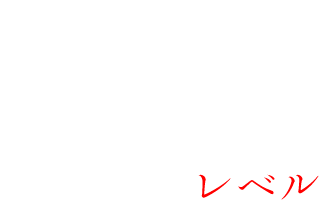
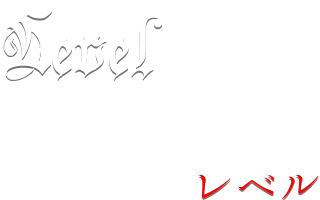
Tiny update.

diff --git a/lvlscrn.cpp b/lvlscrn.cpp
@@ -30,6 +30,7 @@ extern Mesh *playerf;
 extern HashMap<uint32_t,uint32_t> reColor;
 extern GLuint ftex;
 extern int XRES;
+extern unsigned int glowTexture;
 
 void clearFrame();
 void hudStart();
@@ -91,6 +92,20 @@ void displayForeground() {
   glEnable(GL_TEXTURE_2D);
   glActiveTexture(GL_TEXTURE0);
   glDepthMask(GL_FALSE);
+
+  float k = 15;
+  drawText(1,700,550+k,"Seven",0x80000000,1.0,0.0,0.0);
+
+  //glEnable(GL_BLEND);
+  //glBlendFunc(GL_ZERO, GL_ONE_MINUS_SRC_ALPHA);
+  //glBindTexture(GL_TEXTURE_2D,tex_level);
+  //glBegin(GL_QUADS);
+  //glColor4f(1,1,1,0.5);
+  //glTexCoord2f(1,0); glVertex3f(1280.0,k,0);
+  //glTexCoord2f(0,0); glVertex3f(0.0,k,0);
+  //glTexCoord2f(0,1); glVertex3f(0.0,720.0+k,0);
+  //glTexCoord2f(1,1); glVertex3f(1280.0,720.0+k,0);
+  //glEnd();
 
   drawText(1,700,550,"Seven",0xffffffff,1.0,0.0,0.0);
 
@@ -169,6 +184,55 @@ void greyScale() {
   }
 }
 
+class Particle {
+public:
+  Vector p;
+  Vector d;
+  double s;
+  double l;
+};
+
+Array<Particle> particles;
+
+void emitParticle(const Vector &p, const Vector &d, const double s) {
+  Particle v;
+  v.p = p;
+  v.d = d;
+  v.s = s;
+  v.l = 1;
+  if (particles.size()<200)
+    particles.push_back(v);
+}
+
+void updateParticles(double dt) {
+  for (int i = 0; i < particles.size(); i++) {
+    Particle &p = particles[i];
+    p.p += dt * p.d;
+    p.l -= dt;
+    if (p.l <= 0) {particles.erase(i,1);i--;}
+  }
+}
+
+void drawParticles() {
+  glEnable(GL_TEXTURE_2D);
+  glEnable(GL_BLEND);
+  glBlendFunc(GL_ONE,GL_ONE);
+  glDepthMask(GL_FALSE);
+  glActiveTexture(GL_TEXTURE0);
+  glBindTexture(GL_TEXTURE_2D,glowTexture);
+  glBegin(GL_POINTS);
+  glColor4f(0.1,1,1,1);
+  for (int i = 0; i < particles.size(); i++) {
+    Particle &p = particles[i];
+    glPointSize(XRES*p.s/320);
+    glVertex3f(p.p.x,p.p.y,p.p.z);
+  }
+  glEnd();
+  glDepthMask(GL_TRUE);
+  glDisable(GL_TEXTURE_2D);
+  glDisable(GL_BLEND);
+}
+
 void displayLevelScreen() {
   clearFrame();
   glRefresh();
@@ -180,9 +244,24 @@ void displayLevelScreen() {
   while(isReclineKeyPressed());
 
   auSeconds() = 0;
+  seconds_levelScreen = auSeconds();
+  double emitties = 0;
   do {
     clearFrame();
+    double bef = seconds_levelScreen;
     seconds_levelScreen = auSeconds();
+
+    updateParticles(seconds_levelScreen-bef);
+    emitties += seconds_levelScreen-bef;
+    double k = 0.005;
+    int i = 0;
+    while(emitties-k>=0) {
+      static unsigned int ka = 0; ka++;
+      emitParticle(Vector((int)(ka & 1)*2-1+randomLike(ka*2)*0.25-0.125,5,randomLike(ka*5)*0.25-0.1250),Vector(0,8,0)*(randomLike(ka*33)+0.1),randomLike(ka)*20+10);
+      emitties-=k;
+      i++;
+      if (i > 20) break;
+    }
 
     hudStart();
     displayBackground();
@@ -196,6 +275,7 @@ void displayLevelScreen() {
     reColor[0x4000c0ff] = 0x00;
     drawMesh(playerf);
     reColor.clear();
+    drawParticles();
     greyScale();
 
     hiPass();
@@ -216,4 +296,3 @@ void displayLevelScreen() {
   while(isReclineKeyPressed());
   glNextKey();
 }
-

diff --git a/hud.hpp b/hud.hpp
@@ -74,12 +74,14 @@ void drawEnemyEnergyBar(double xp, double yp, double w, double h) {
 
 void drawHudGetReady(double anim) {
   hudStart();
+  drawText(1,1280/2,720/2+15,"!Get Ready!",0x0000000+((uint32_t)(pow(anim,0.5)*0xff000000)&0xff000000),1.0,0.5,0.5);
   drawText(1,1280/2,720/2,"!Get Ready!",0x00ffffff+((uint32_t)(pow(anim,0.5)*0xff000000)&0xff000000),1.0,0.5,0.5);
   hudEnd();
 }
 
 void drawHudWarning() {
   hudStart();
+  drawText(1,1280/2,720/2+15,"!Warning!",0x40000000,1.0,0.5,0.5);
   drawText(1,1280/2,720/2,"!Warning!",0xff0000ff,1.0,0.5,0.5);
   hudEnd();
 }
